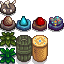
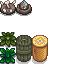
updated egg sprites, created custom geode egg node

Changed region(s): [[0.0, 0.0, 1.0, 0.5]]

diff --git a/ResourceChickens/README.md b/ResourceChickens/README.md
@@ -58,11 +58,11 @@ Each subsequent increase in chicken level adds 10% to both the sell price of egg
 | Farmer | Complete a quest from Marnie after reaching 3 hearts of friendship with her, egg becomes purchasable from Marnie after the quest is complete | Farming Level 4 |
 | Fiber | Drop from breaking weeds in the Forest or Railroad, forage in the Secret Woods | Forage Level 3 |
 | Gold | Craft and incubate a Gold Egg Fusion Chamber | Farming Level 5 |
-| Geode | Rare drop from geode stones in the Mines and Skull Cavern, can also spawn in the Quarry | Mining Level 3 |
+| Geode | Rare drop from geode egg nodes in the Mines and Skull Cavern, can also spawn in the Quarry | Mining Level 3 |
 | Hardwood | Craft and incubate a Hardwood Egg Fusion Chamber | Farming Level 3 |
 | Iridium | Craft and incubate an Iridium Egg Fusion Chamber | Farming Level 6 |
 | Iron | Craft and incubate an Iron Egg Fusion Chamber | Farming Level 4 |
-| Monster | Drop from rare custom Monster Nest node in the Quarry mine, or purchasable from Krobus after 3 hearts of friendship with them | Combat Level 5 |
+| Monster | Drop from rare custom Monster Nest nodes in the Quarry mine, or purchasable from Krobus after 3 hearts of friendship with them | Combat Level 5 |
 | Moss | Rare drop from shaking/chopping green rain trees, destroying green rain weeds, forage in the Forest day after green rain, destroying weeds in the forest day after normal rain | Foraging Level 3 |
 | Quartz | Craft and incubate a Quartz Egg Fusion Chamber | Farming Level 4 |
 | Sap | Rare drop from chopping Oak, Maple, Pine, or Mahogany trees | Foraging Level 2 |
@@ -88,7 +88,7 @@ _If you feel fiber chicken egg forage spots are too rare or not rare enough, ple
 <details>
 <summary>Spoiler: How to Find and Process Geode Eggs</summary>
 
-Once you have reached **Mining skill level 3**, four types of custom geode stones will have a rare chance to spawn in the Mines, each containing a geode chicken egg.
+Once you have reached **Mining skill level 3**, a custom geode egg mining node will have a rare chance to spawn in the Mines containing a geode chicken egg.
 
 Geode chicken eggs, when placed in the Resource Egg Converter will randomly produce the following:
 
@@ -98,6 +98,21 @@ Geode chicken eggs, when placed in the Resource Egg Converter will randomly prod
 -   An omni geode once any player has reached the bottom of the Mines
 
 _If you feel geode chicken eggs are too rare or not rare enough, please provide feedback._
+
+</details>
+</br>
+<details>
+<summary>Spoiler: How Processing Bomb Eggs Works</summary>
+
+Once you have reached **Mining skill level 4**, Bomb Eggs become obtainable.
+
+Bomb chicken eggs, when placed in the Resource Egg Converter will randomly produce the following based on the player's current mining level:
+
+-   Mining Level less than 6: 100% Cherry Bomb
+-   Mining Level less than 8: 60% Cherry Bomb, 40% Bomb
+-   Mining Level greater than 8: 50% Cherry Bomb, 33% Bomb, 17% Mega Bomb
+
+_Bombs and Mega Bombs are only available at higher mining levels to align with when their crafting recipes becoming available to attempt keeping them as balanced as possible._
 
 </details>
 
@@ -119,7 +134,11 @@ Resource eggs can be put into a Resource Egg Converter to produce their respecti
 
 ### ![coopbanner](https://github.com/UncleArya/StardewMods/assets/100550741/257de0f9-a94d-43b2-a570-2d95ebcf3952)
 
-To help make room on your farm for all your new chickens, a 3rd upgrade to the Coop is now available to build from Robin. The Giant Coop can house up to 24 Coop animals and also comes with a second Egg Incubator with the building upgrade. The second incubator that comes with the Giant Coop upgrade can be picked up by hitting it with an axe or pickaxe and then placed anywhere else in the coop (must be placed in the coop to hatch chickens). The larger Coop map gives you lots of space for your machines and chests. The buidling sprite was also made by the lovely [Tophatta](https://www.nexusmods.com/stardewvalley/users/54445652)!
+To help make room on your farm for all your new chickens, a 3rd upgrade to the Coop is now available to build from Robin. The Giant Coop can house up to 24 Coop animals and also comes with a second Egg Incubator with the building upgrade. The second incubator that comes with the Giant Coop upgrade can be picked up by hitting it with an axe or pickaxe and then placed anywhere else in the coop (must be placed in the coop to hatch chickens).
+</br>
+**Note: if multiple incubators are ready to hatch chickens in the same coop, you must leave and re-enter the coop after naming each chicken. The game only allows for naming and spawning 1 chicken at a time. After naming the first chicken, simply exit and re-enter the coop to receive the prompt to name the next chicken.**
+</br>
+The larger Coop map gives you lots of space for your machines and chests. The buidling sprite was also made by the lovely [Tophatta](https://www.nexusmods.com/stardewvalley/users/54445652)!
 
 ### ![dependencies](https://github.com/UncleArya/StardewMods/assets/100550741/c05fe851-0764-4c98-8249-6012fb946468)
 

diff --git a/ResourceChickens/CHANGELOG.md b/ResourceChickens/CHANGELOG.md
@@ -9,6 +9,7 @@
 -   Added spawn conditions for Bomb and Monster Chicken Eggs
 -   Added shop items for Krobus, Marnie, and the Dwarf once unlock conditions are satisfied
 -   Added craftable Iridium Fusion Chamber
+-   Created custom Geode Egg mining node; Geode Eggs now drop only from the custom node, not from vanilla-looking geode nodes
 
 ## 0.3.4
 
